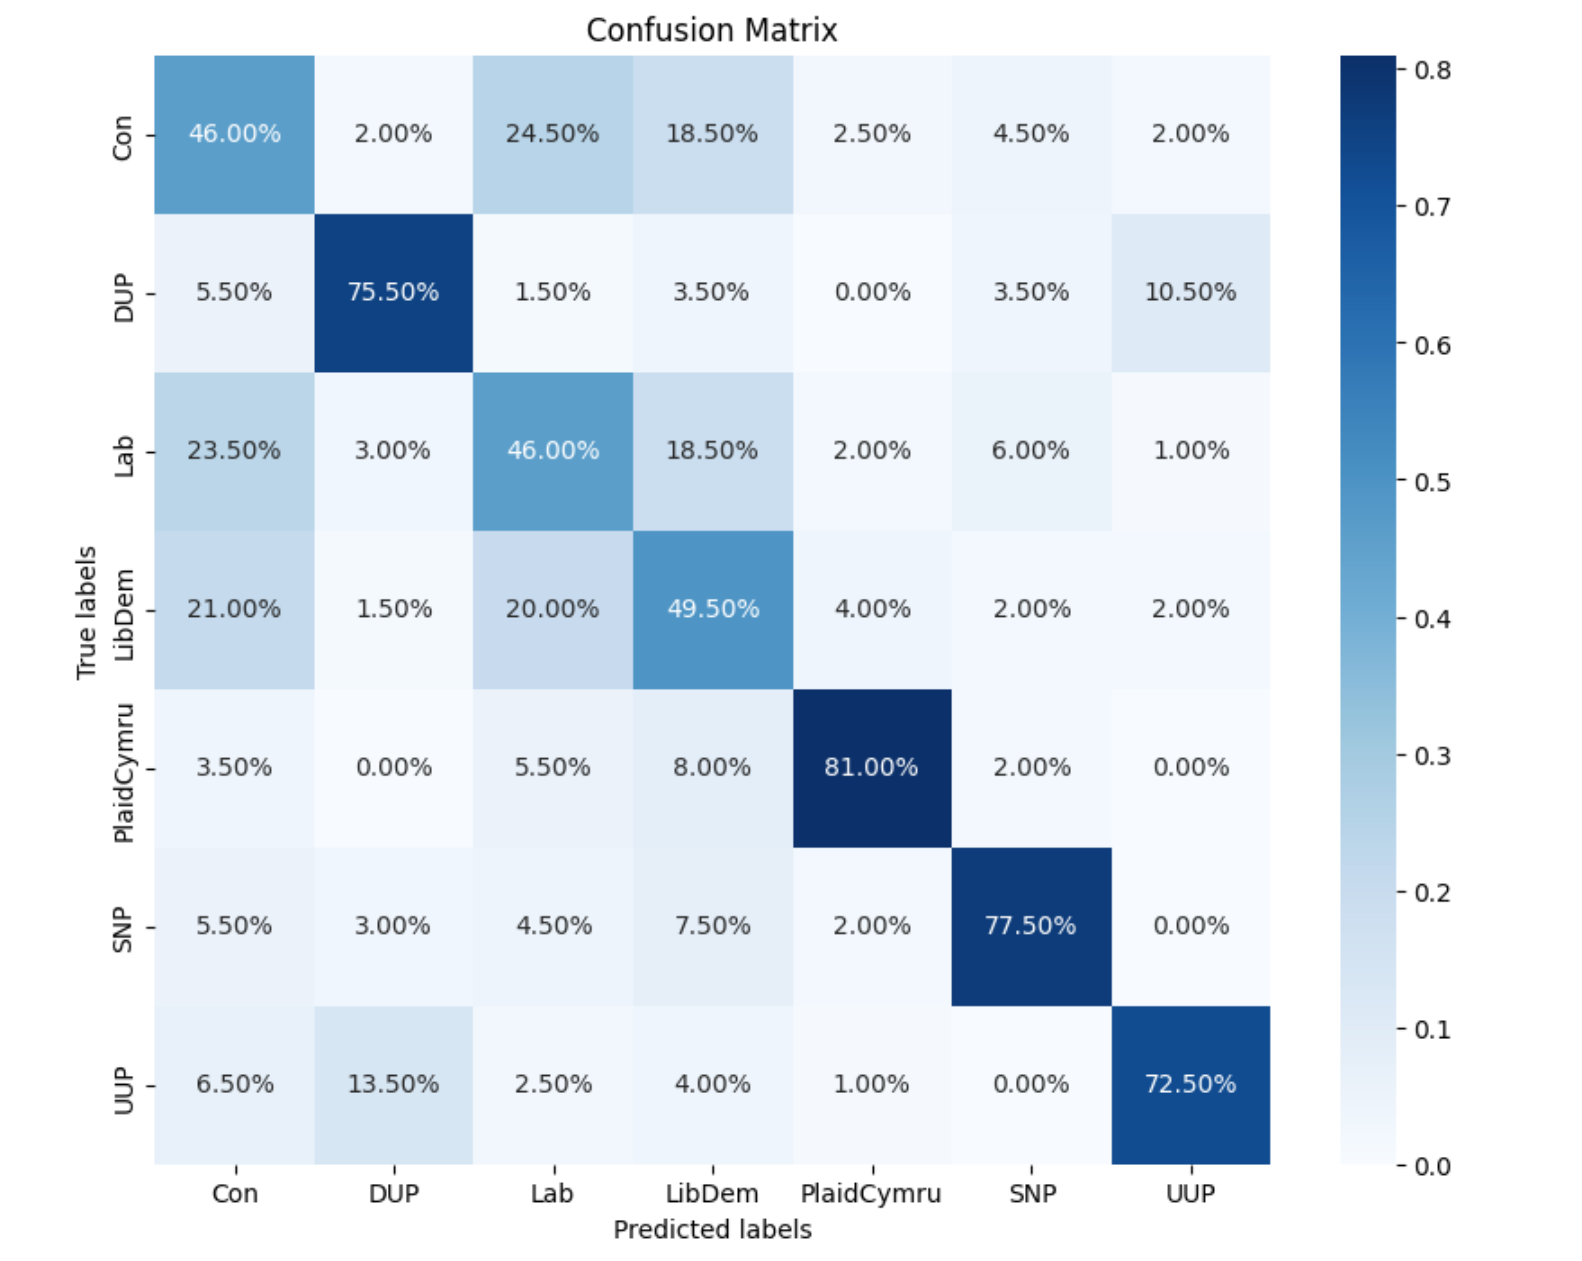
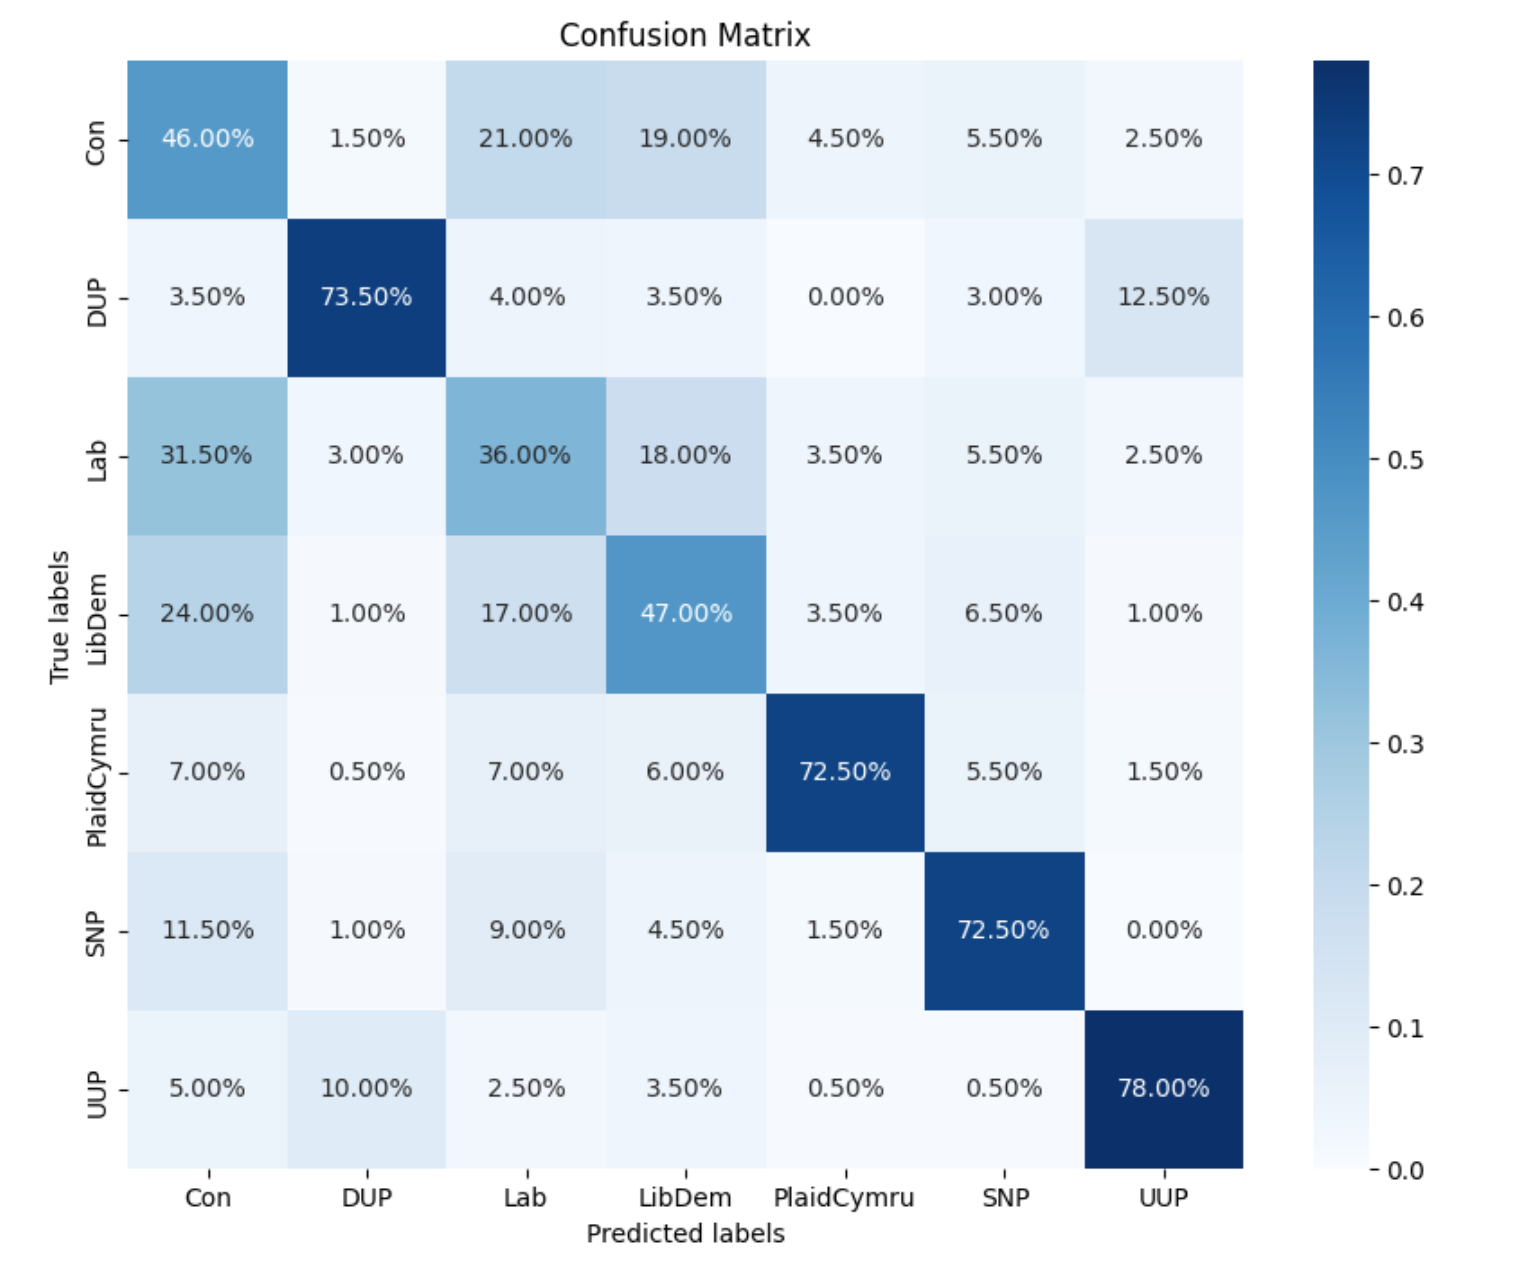
add conf matrices to text and replace wrong SVM CM

diff --git a/README.md b/README.md
@@ -12,7 +12,7 @@ The model is trained on data from the [ParlSpeech V2 corpus](https://dataverse.h
 The model is a 7-way classifier between the following parties: Conservative Party, Labour Party, Liberal Democrats, SNP, DUP, UUP and Plaid Cymru. It also returns a confidence or prediction probability along with the predicted class.
 
 ## Best-performing Model
-The repository is set up to train our best-performing model by default using sklearn. The model is an SVM with a linear kernel, C of 1.32 and gamma set to `"scale"`, using a TFIDF vectorized input using `gensim`'s `"glove-wiki-gigaword-100"` with a `min_df` of 5, a `max_df` of 85% and 10000 features. It reaches 60.79% accuracy across the 7 classes but some classes are predicted better than others. Regional parties (SNP, DUP, UUP and Plaid Cymru) are predicted with over 70% accuracy (even 78% on UUP), whereas nation-wide parties (Conservative, Labour and LibDem) are often mixed up with one-another and the accuracy hovers around 36-47%.
+The repository is set up to train our best-performing model by default using sklearn. The model is an SVM with a linear kernel, C of 1.32 and gamma set to `"scale"`, using a TFIDF vectorized input using `gensim`'s `"glove-wiki-gigaword-100"` with a `min_df` of 5, a `max_df` of 85% and 10000 features. It reaches 60.79% accuracy across the 7 classes but some classes are predicted better than others. Regional parties (SNP, DUP, UUP and Plaid Cymru) are predicted with over 70% accuracy (even 78% on UUP), whereas nation-wide parties (Conservative, Labour and LibDem) are often mixed up with one-another and the accuracy hovers around 36-47%. A [normalized](https://github.com/szaboildi/uk-pol-speech-classifier/blob/readme/images/SVM_normalized_6079.png) and a [raw](https://github.com/szaboildi/uk-pol-speech-classifier/blob/readme/images/SVM_6079.png) confusion matrix for this model have been included in the repo.
 
 ## Performance comparisons
-The model performs better than the other options that have been tried, these can be found in the `notebooks/` folder. Explored models include a KNN (43.78% accuracy), a vanilla Logistic Regression (59.95% accuracy), an LSTM (49.07% accuracy), a GRU (51.71% accuracy) and a transformer (with [BERT-small](https://huggingface.co/prajjwal1/bert-small) used for the encoder, 46.40% accuracy). Currently only the SVM and KNN are packaged along with some additional registry functions for keras-based models.
+The model performs better than the other options that have been tried, these can be found in the `notebooks/` folder. Confusion matrices for each other model are linked below. Testing was concluded with 200 observations/class. Explored models include a KNN ([43.78% accuracy](https://github.com/szaboildi/uk-pol-speech-classifier/blob/6d7dc7a9a7e7841628ae327604edb5a425dc86c8/images/KNN_4378.png)), a vanilla Logistic Regression ([59.95% accuracy](https://github.com/szaboildi/uk-pol-speech-classifier/blob/6d7dc7a9a7e7841628ae327604edb5a425dc86c8/images/logreg_5995.png)), an LSTM ([49.07% accuracy](https://github.com/szaboildi/uk-pol-speech-classifier/blob/6d7dc7a9a7e7841628ae327604edb5a425dc86c8/images/LSTM_4907.png)), a GRU ([51.71% accuracy](https://github.com/szaboildi/uk-pol-speech-classifier/blob/6d7dc7a9a7e7841628ae327604edb5a425dc86c8/images/GRU_5171.png)) and a transformer (with [BERT-small](https://huggingface.co/prajjwal1/bert-small) used for the encoder, [46.40% accuracy](https://github.com/szaboildi/uk-pol-speech-classifier/blob/6d7dc7a9a7e7841628ae327604edb5a425dc86c8/images/transformers_4640.png)). Currently only the SVM and KNN are packaged along with some additional registry functions for keras-based models.
